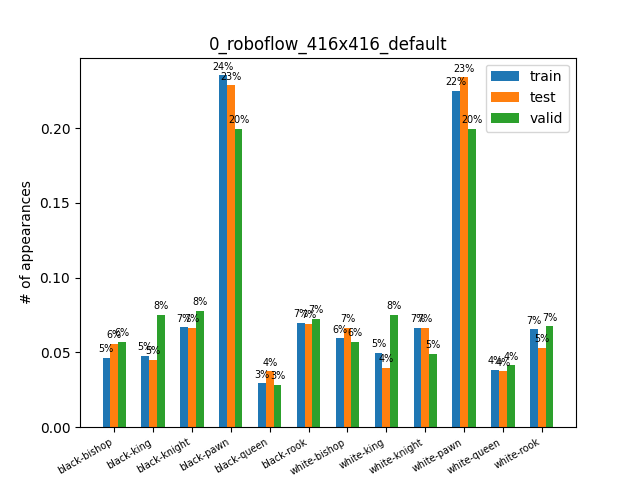
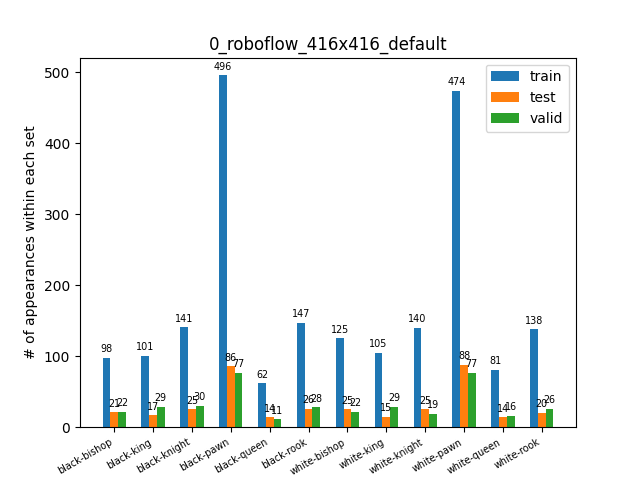
Distribution both in percent and by number

diff --git a/ObjectDetection/utils/labelDistribution.py b/ObjectDetection/utils/labelDistribution.py
@@ -14,11 +14,11 @@ cls = ['black-bishop', 'black-king', 'black-knight', 'black-pawn', 'black-queen'
        'white-bishop', 'white-king', 'white-knight', 'white-pawn', 'white-queen', 'white-rook']
 
 # Matplotlib utils
-def autolabel(ax, rects, offset):
+def autolabel(ax, rects, offset, percent=False):
     for rect in rects:
         h = rect.get_height()
         ax.text(rect.get_x() + rect.get_width() / 2.,
-                h + offset, f'{round(100*h)}%',
+                h + offset, (f'{h}', f'{round(100*h)}%')[percent],
                 fontsize='x-small',
                 ha='center', va='bottom')
 
@@ -32,12 +32,12 @@ def create_data_counter(path):
 
 def count_labels(path_labels):
     data_counter = create_data_counter(path_labels)
-    
+
     for path_txt in tqdm(glob.glob(f'{path_labels}/*.txt')):
         data_counter['nb_files'] += 1
         with open(path_txt) as file:
             lines = file.read().split('\n')
-        
+
         for line in lines:
             if len(line) < 1: continue
             label = int(line.split()[0])
@@ -49,15 +49,9 @@ def count_labels(path_labels):
 def analyse_folder(path):
     data_folder = {}
 
-    fig, ax = plt.subplots()
-    ind = np.arange(len(cls))
-
-    rects=[]
     plt_labels=[]
 
-    offset_text = 0
-        
-    for i, subdirectory in enumerate(typeSet):
+    for subdirectory in typeSet:
         path_subdirectory = os.path.join(path_directory, subdirectory)
 
         # Ignore if the subdirectory doesn't exists
@@ -72,27 +66,59 @@ def analyse_folder(path):
         print(f'  {subdirectory}...')
 
         data_folder[subdirectory] = count_labels(path_subdirectory_labels)
-        
-        data_folder[subdirectory]['count'] = [x / data_folder[subdirectory]['tot_boxes'] for x in data_folder[subdirectory]['count']]
 
-        offset_text = max(offset_text, max(data_folder[subdirectory]['count']))
-        rects.append(ax.bar(ind + 0.2 * i, data_folder[subdirectory]['count'], width=0.2))
         plt_labels.append(subdirectory)
-    
-    if len(rects) > 0:
+
+    if len(plt_labels) > 0:
+        ind = np.arange(len(cls))
+
+        # PERCENTAGE FIGURE
+        fig, ax = plt.subplots()
         ax.set_ylabel('% of appearances within each set')
         ax.set_xticks(ind + 0.2)
         ax.set_xticklabels(cls)
         plt.setp(ax.get_xticklabels(), rotation=30, horizontalalignment='right',fontsize='x-small')
 
-        offset_text = 0.01 * offset_text
-        
-        for rect in rects:
-            autolabel(ax, rect, offset_text)
-    
-        ax.legend(rects, plt_labels)
+        counts_percent = [[x / data_folder[label]['tot_boxes'] for x in data_folder[label]['count']] for label in plt_labels]
+        offset_text = 0.01 * max([max(counts_percent[i]) for i in range(len(plt_labels))])
+
+        rects_percent = []
+        for i in range(len(plt_labels)):
+            rect = ax.bar(
+                    ind + 0.2 * i,
+                    counts_percent[i],
+                    width=0.2)
+            autolabel(ax, rect, offset_text, percent=True)
+            rects_percent.append(rect)
+
+        ax.legend(rects_percent, plt_labels)
         plt.title(path[path.find(path_data)+len(path_data)+1:])
-        
+
+        fig.savefig(f'{path}/labels_distribution_percent.png')
+        plt.close(fig)
+        print(f'  {path}/labels_distribution_percent.png saved...')
+
+        # NUMBER FIGURE
+        fig, ax1 = plt.subplots()
+        ax1.set_ylabel('# of appearances within each set')
+        ax1.set_xticks(ind + 0.2)
+        ax1.set_xticklabels(cls)
+        plt.setp(ax1.get_xticklabels(), rotation=30, horizontalalignment='right',fontsize='x-small')
+
+        offset_text = 0.01 * max([max(data_folder[label]['count']) for label in plt_labels])
+
+        rects = []
+        for i, subdirectory in enumerate(plt_labels):
+            rect = ax1.bar(
+                    ind + 0.2 * i,
+                    data_folder[subdirectory]['count'],
+                    width=0.2)
+            autolabel(ax1, rect, offset_text)
+            rects.append(rect)
+
+        ax1.legend(rects, plt_labels)
+        plt.title(path[path.find(path_data)+len(path_data)+1:])
+
         fig.savefig(f'{path}/labels_distribution.png')
         plt.close(fig)
         print(f'  {path}/labels_distribution.png saved...')
